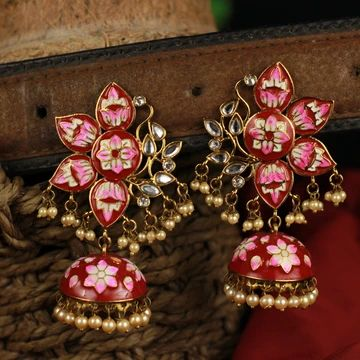
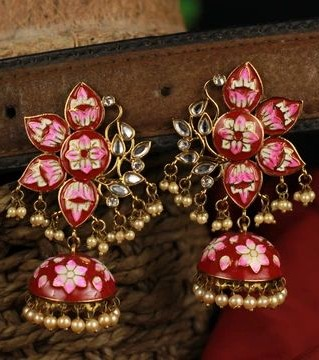
fotter jo ki sahi nhi hai

diff --git a/style.css b/style.css
@@ -392,6 +392,7 @@ nav{
     height: 100vh;
     width: 100%;
     line-height: 0.9;
+    background: radial-gradient(circle at 50% 50%, #646949 ,rgba(255, 255, 255) 50%);
 }
 
 #pg3heading{
@@ -457,6 +458,46 @@ nav{
 footer{
     height: 100vh;
     width: 100%;
-    background-color: white;
+    background-color: rgb(255, 255, 255);
+    position: relative;
+}
+
+#pillar_images{
+    height: 100%;
+    width: 100%;
+    display: flex;
+    justify-content: space-between;
+    overflow-y: hidden;
+}
+
+footer img{
+    height: 110%;
+    width: 30%;
+    object-fit: contain;
+    mix-blend-mode: darken ;
+    opacity: 0.8;
+}
+
+footer h1{
+    font-size: 20vw;
+    font-family: "fleur de leah", cursive;
+    font-weight: 400;
+    position: absolute;
+    top: 0%;
+    margin-top: -4vh;
+    text-align: center; 
+    width: 100%;
+    color: #020402;
+    z-index: 11;
+}
+
+#screen{
+    height: 100vh;
+    width: 100%;
+    position: absolute;
+    top: 0;
+    left: 0;
+    background-color: #6469498d;
+    z-index: 10;
 }
 

diff --git a/index.html b/index.html
@@ -56,7 +56,7 @@
                 <div id="mainimagepart">
                     <img id="mainimage" src="/media/main_image.jpg" alt="mainimage">
                     <div id="earrings">
-                        <img src="/media/earrings.jpg" alt="earring image">
+                        <img src="/media/fixedimage.jpg" alt="earring image">
                         <h2>Diamond Stud Earring</h2>
                         <h5>Lorem ipsum dolor sit amet consectetur adipisicing elit. Excepturi quibusdam dicta doloremque.</h5>
                         <h2><i class="ri-arrow-right-circle-line"></i></h2>
@@ -112,6 +112,14 @@
 
 
         <footer>
+            <div id="pillar_images">
+                <img src="/media/jewellery_store.jpg" alt="">
+                <img src="/media/jewellery_store.jpg" alt="">
+            </div>
+
+
+            <h1>Manoriva</h1>
+            <div id="screen"></div>
         </footer>
     </div>
 
